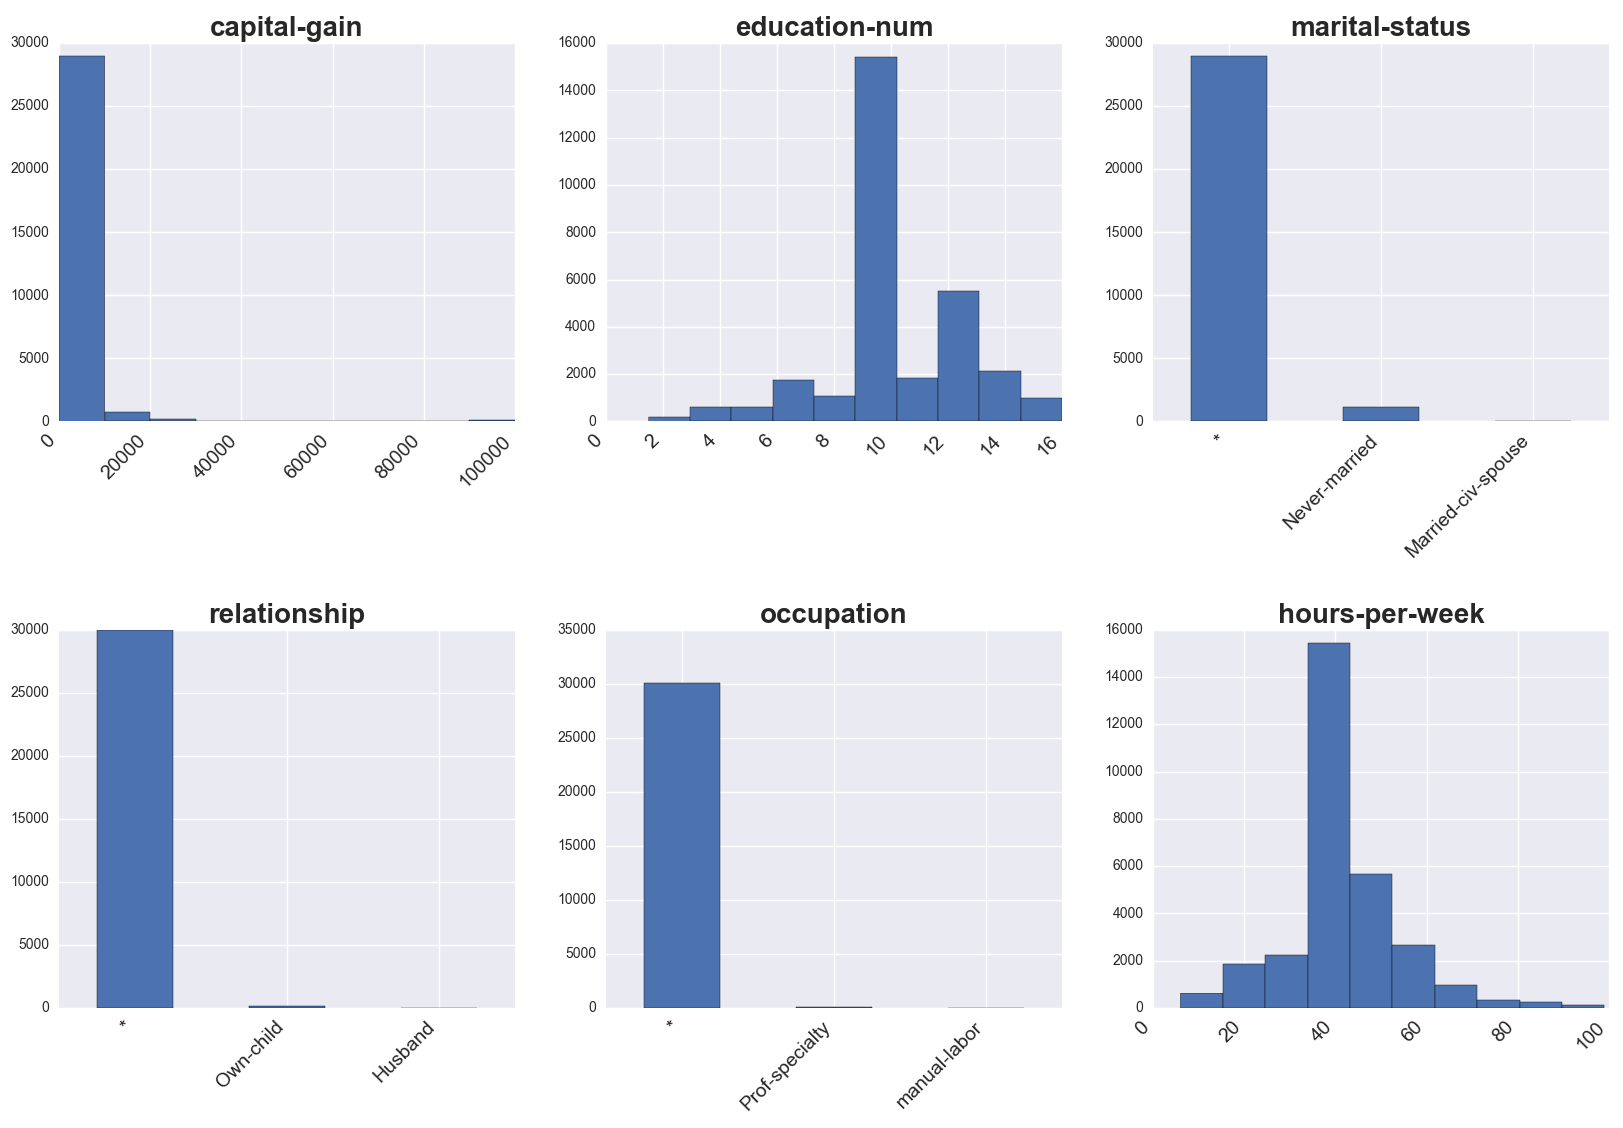
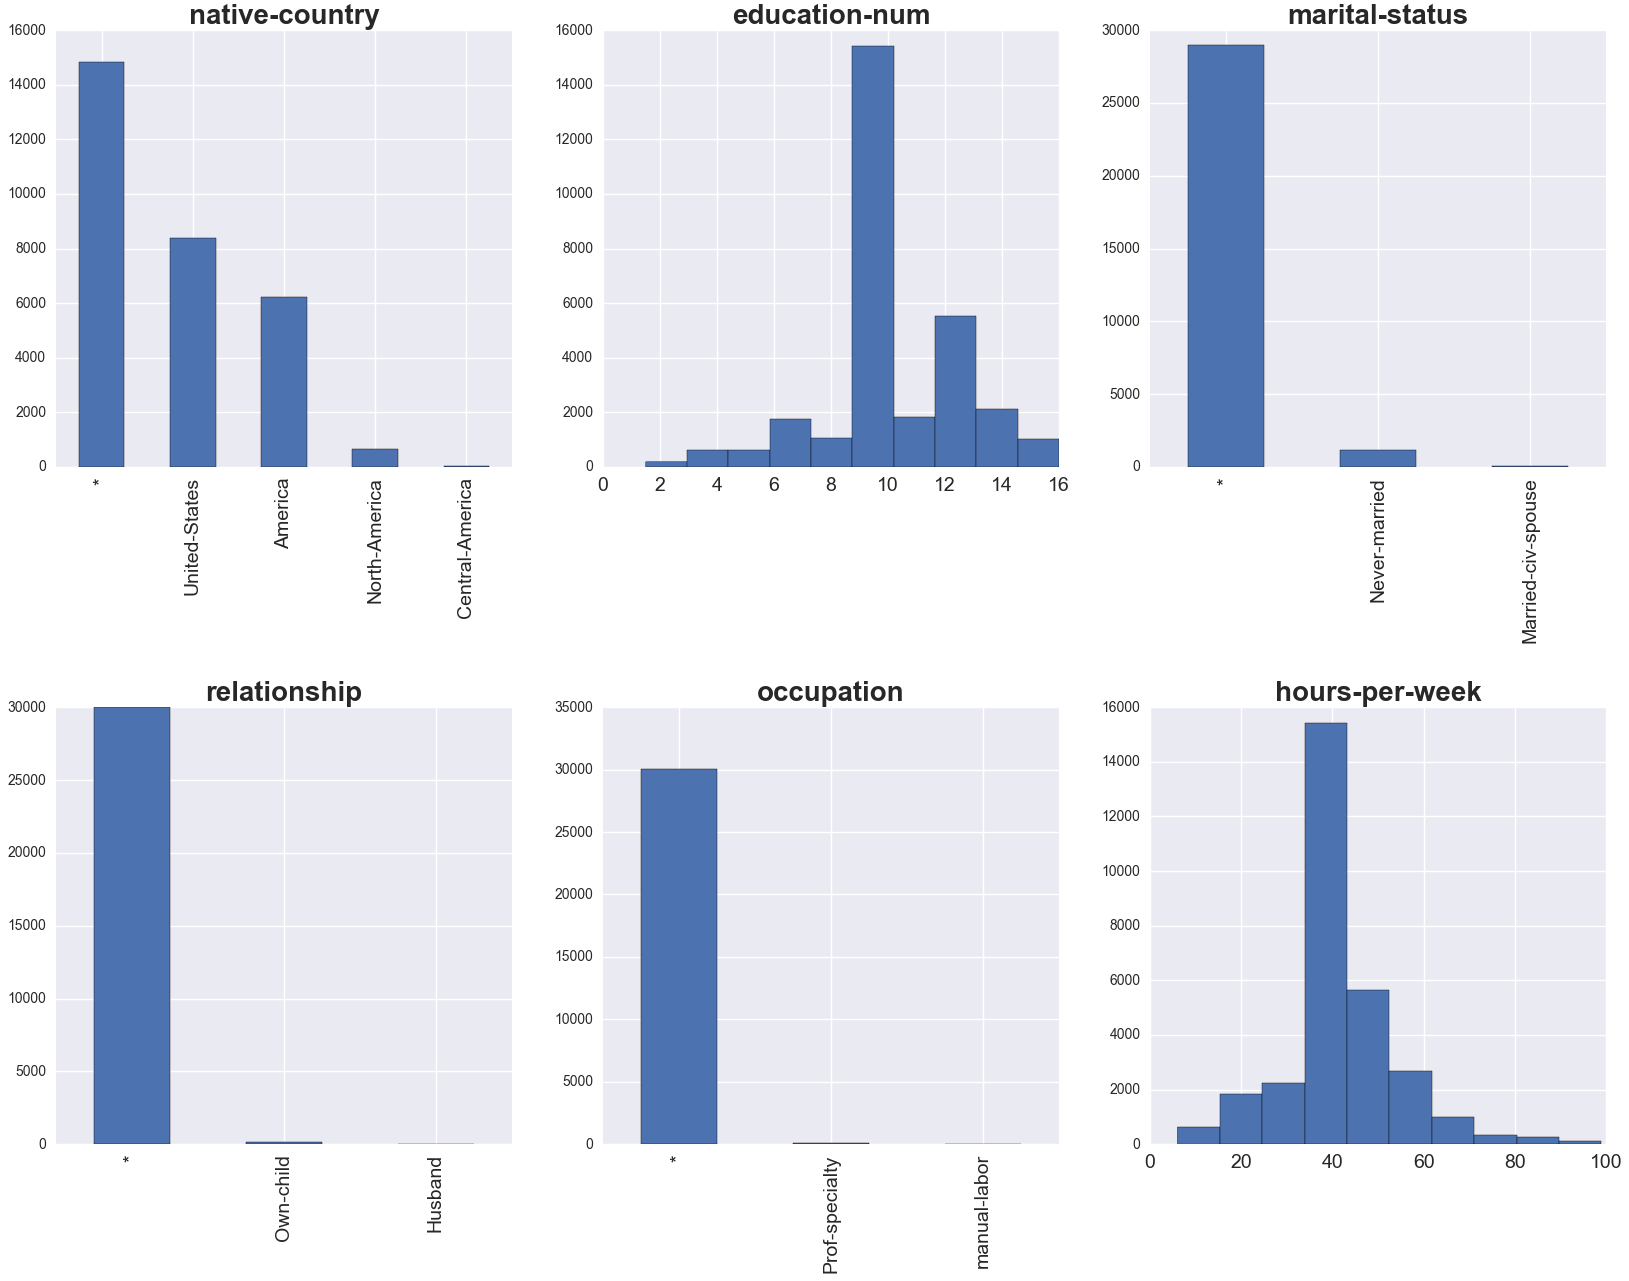
adapted figures and text again to reflect native-country skewedness

diff --git a/main.tex b/main.tex
@@ -195,7 +195,7 @@ As input data we chose the adults dataset from the UCI Machine Learning reposito
 	\begin{center}
     \hspace*{-0.8cm}
 		\includegraphics[width=1.1\textwidth]{figures/experiment/dist_initial_small}
-		\caption{Initial distribution of the most important (w.r.t. classifier result quality) data columns of the adult dataset}
+		\caption{Initial distribution of six selected data columns of the adult dataset.}
 		\label{fig:adult_original_distribution}
 	\end{center}
 \end{figure}
@@ -206,7 +206,7 @@ As one can see, there are several attributes with one value clearly dominating t
 	\begin{center}
     	\hspace*{-0.8cm}
 		\includegraphics[width=1.1\textwidth]{figures/experiment/dist_anonym_small}
-		\caption{Anonymized distribution of the most important (w.r.t. classifier result quality) data columns of the adult dataset, anonymization factor of k=19, equal weight for each attribute.}
+		\caption{Anonymized distribution of six selected data columns of the adult dataset, anonymization factor of k=19, equal weight for each attribute.}
 		\label{fig:adult_anonymized_distribution}
 	\end{center}
 \end{figure}
